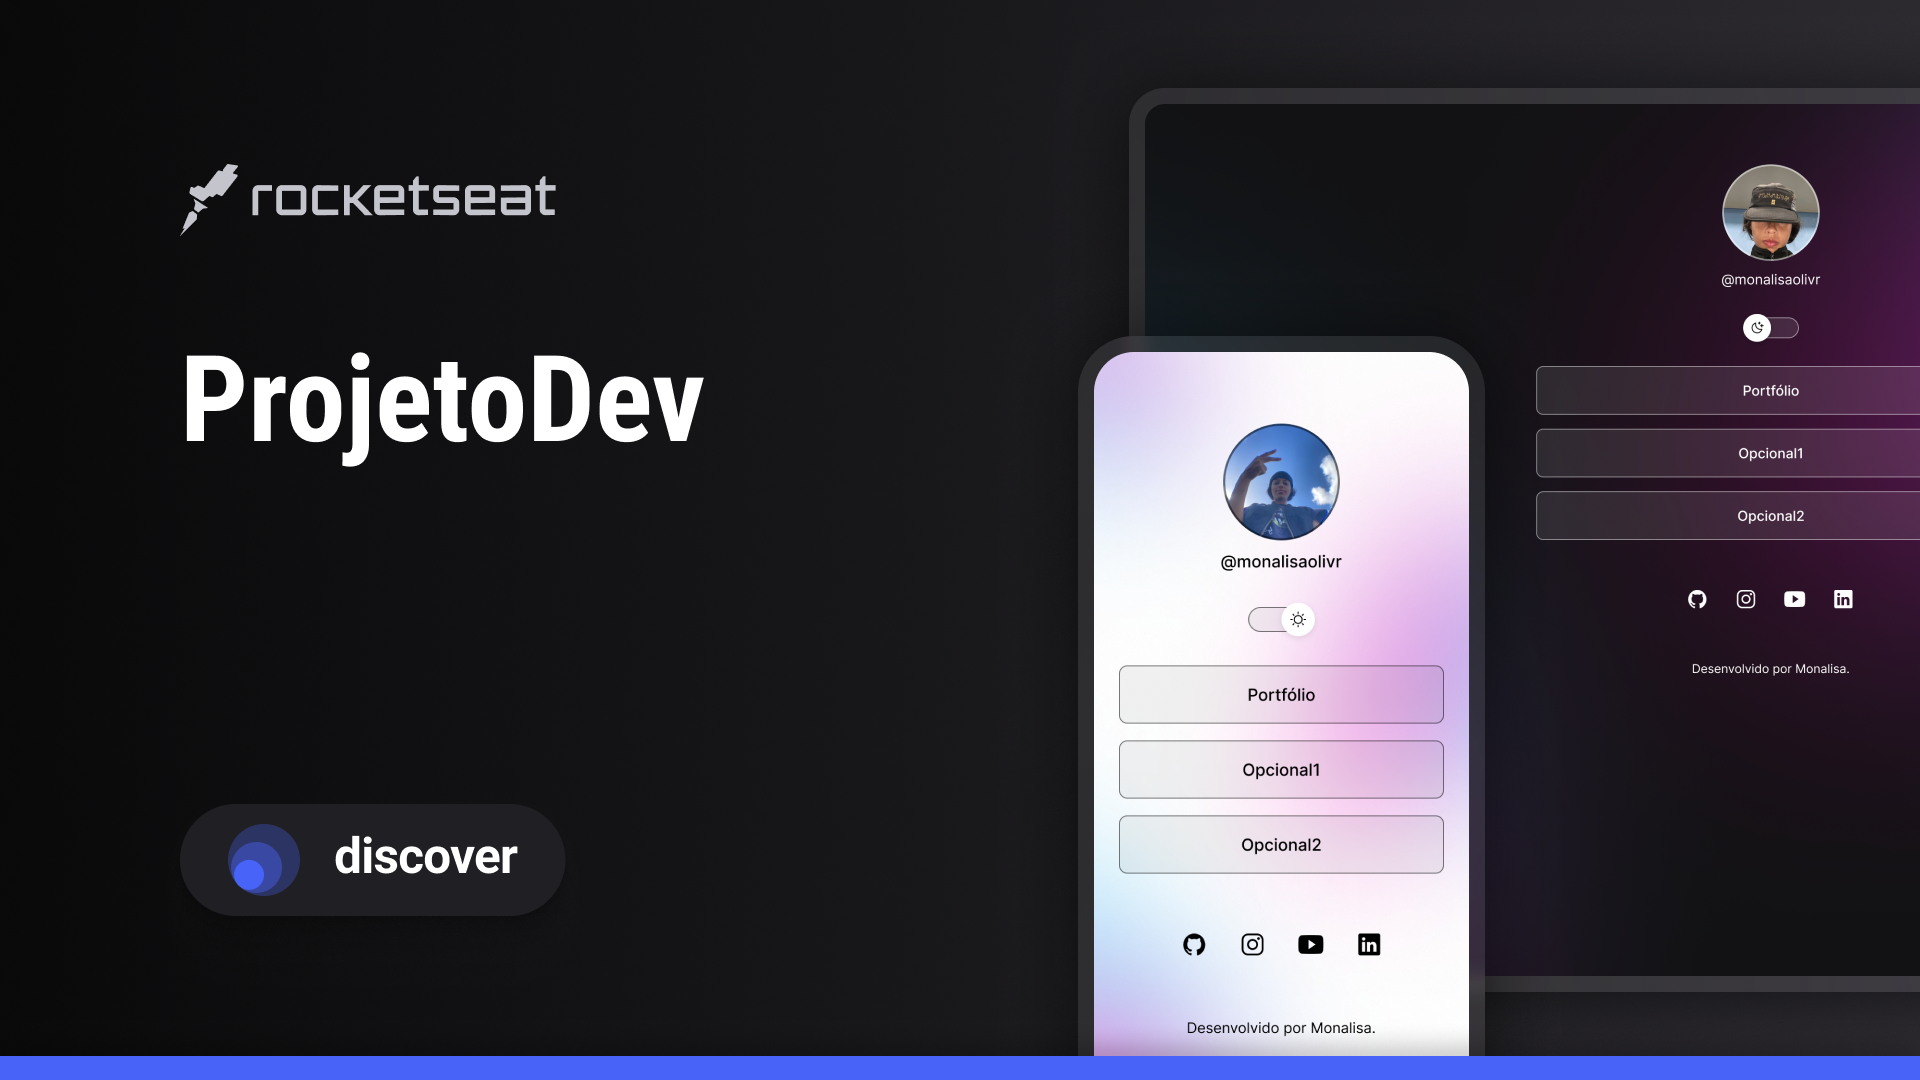
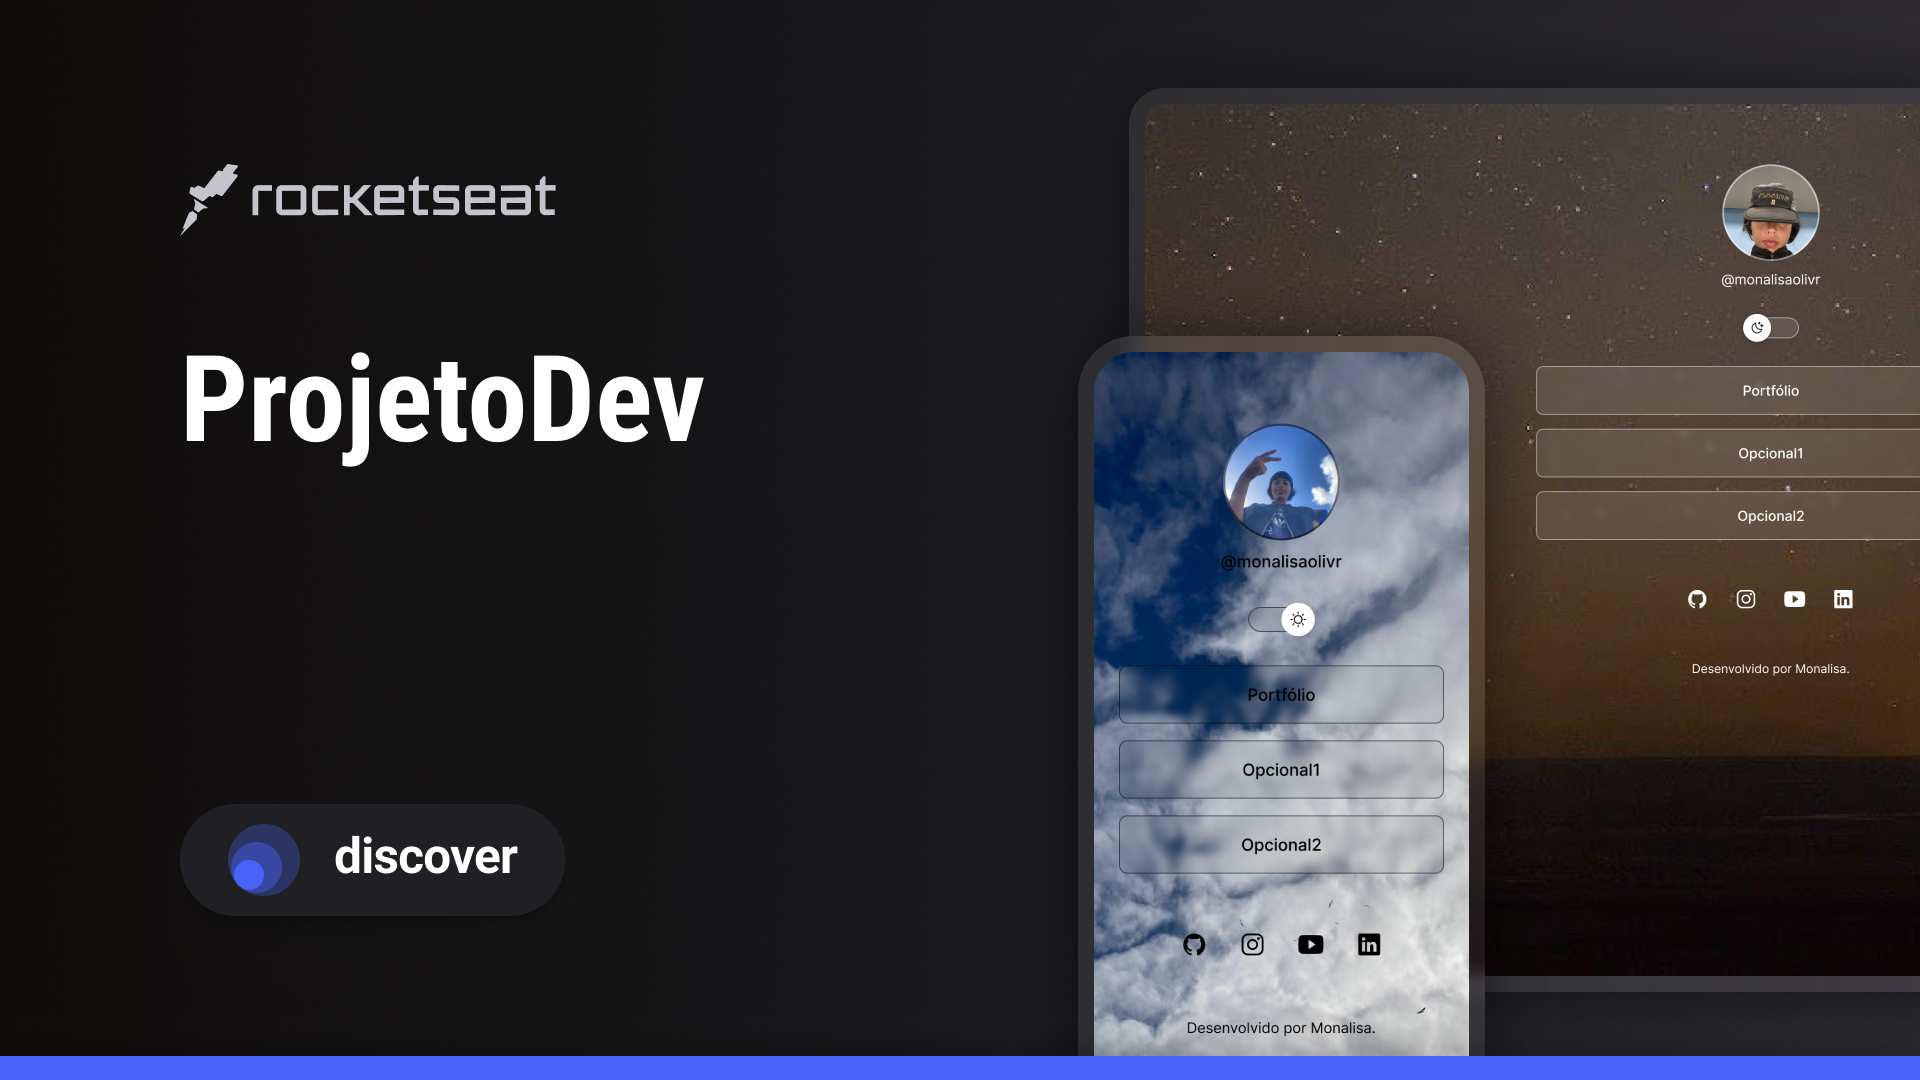
add readme.md

Changed region(s): [[0.5625, 0.0917, 1.0, 0.9778]]

diff --git a/style.css b/style.css
@@ -6,7 +6,7 @@
 
 :root {
   --text-color: white;
-  --bg-url: url(./assets/bg-mobile.jpg);
+  --bg-url: url(./assets/noite.jpg);
   --stroke-color: rgba(255, 255, 255, 0.5);
   --surface-color: rgba(255, 255, 255, 0.05);
   --surface-color-hover: rgba(0, 0, 0, 0.02);
@@ -16,7 +16,7 @@
 
 .light {
   --text-color: black;
-  --bg-url: url(./assets/bg-mobile-light.jpg);
+  --bg-url: url(./assets/ceu\ azul.jpg);
   --stroke-color: rgba(0, 0, 0, 0.5);
   --surface-color: rgba(0, 0, 0, 0.05);
   --surface-color-hover: rgba(0, 0, 0, 0.02);
@@ -173,10 +173,10 @@ footer {
 @media (min-widht: 700px) {
 
   :root{
-    --bg-url:url(./assets/bg-desktop.jpg);
+    --bg-url:url(./assets/noite.jpg);
   }
   .light {
-    --bg-url:url(./assets/bg-desktop-light.jpg);
+    --bg-url:url(./assets/ceu\ azul.jpg);
   }
 }
 
